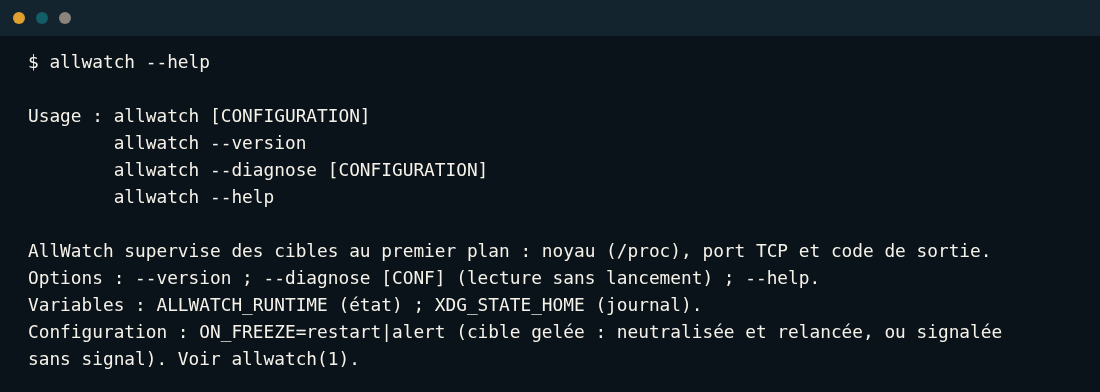
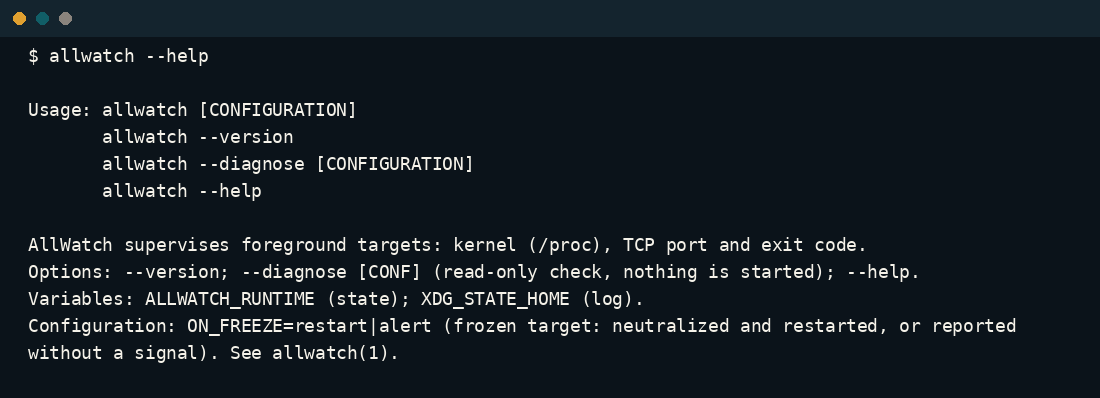
Aide et erreurs d'allwatch.sh dans la langue du système (en, fr, de, es, zh), cinq captures réelles et documents alignés

Changed region(s): [[0.0, 0.5816, 0.9273, 0.949], [0.0309, 0.2449, 0.4636, 0.5204], [0.0309, 0.1224, 0.1855, 0.1837]]

diff --git a/docs/de-DE/troubleshooting.md b/docs/de-DE/troubleshooting.md
@@ -14,8 +14,10 @@ Die Protokollzeilen sind `Datum id Ereignis`. Die Ereignisse sind `DEMARRAGE`, `
 
 ## Der Dienst startet nicht
 
-- `allwatch: configuration illisible : /etc/allwatch/allwatch.conf` — die Datei fehlt oder ist für den Dienstbenutzer nicht lesbar. Prüfen Sie `sudo -u allwatch test -r /etc/allwatch/allwatch.conf` und `sudo systemctl cat allwatch`.
-- `allwatch: /run/allwatch n'appartient pas à l'utilisateur` — das Laufzeitverzeichnis gehört einem anderen Benutzer. Prüfen Sie `ls -ld /run/allwatch /var/lib/allwatch`; die Unit legt sie für `allwatch` an. Wenn Sie ein Drop-in mit einem anderen `User=` hinzugefügt haben, korrigieren Sie den Eigentümer oder entfernen Sie das Drop-in.
+Das Programm schreibt diese Meldungen in der Sprache des Systems (`LC_ALL`, `LC_MESSAGES` oder `LANG`); Standard ist Englisch.
+
+- `allwatch: Konfiguration nicht lesbar: /etc/allwatch/allwatch.conf` — die Datei fehlt oder ist für den Dienstbenutzer nicht lesbar. Prüfen Sie `sudo -u allwatch test -r /etc/allwatch/allwatch.conf` und `sudo systemctl cat allwatch`.
+- `allwatch: /run/allwatch gehört nicht dem aktuellen Benutzer` — das Laufzeitverzeichnis gehört einem anderen Benutzer. Prüfen Sie `ls -ld /run/allwatch /var/lib/allwatch`; die Unit legt sie für `allwatch` an. Wenn Sie ein Drop-in mit einem anderen `User=` hinzugefügt haben, korrigieren Sie den Eigentümer oder entfernen Sie das Drop-in.
 - `status=203/EXEC` — das Programm fehlt oder ist nicht ausführbar. Installieren Sie das Paket neu.
 - `status=1/FAILURE` mit einem Konfigurationsfehler — führen Sie `--diagnose` als Dienstbenutzer aus (siehe unten).
 

diff --git a/docs/es-ES/troubleshooting.md b/docs/es-ES/troubleshooting.md
@@ -14,8 +14,10 @@ Las líneas del registro son `fecha id evento`. Los eventos son `DEMARRAGE`, `DE
 
 ## El servicio no arranca
 
-- `allwatch: configuration illisible : /etc/allwatch/allwatch.conf` — falta el archivo o el usuario del servicio no puede leerlo. Compruebe `sudo -u allwatch test -r /etc/allwatch/allwatch.conf` y `sudo systemctl cat allwatch`.
-- `allwatch: /run/allwatch n'appartient pas à l'utilisateur` — el directorio de ejecución pertenece a otro usuario. Compruebe `ls -ld /run/allwatch /var/lib/allwatch`; la unidad los crea para `allwatch`. Si añadió un drop-in con otro `User=`, corrija la propiedad o retire el drop-in.
+El programa escribe estos mensajes en el idioma del sistema (`LC_ALL`, `LC_MESSAGES` o `LANG`); el inglés es el idioma por defecto.
+
+- `allwatch: configuración ilegible: /etc/allwatch/allwatch.conf` — falta el archivo o el usuario del servicio no puede leerlo. Compruebe `sudo -u allwatch test -r /etc/allwatch/allwatch.conf` y `sudo systemctl cat allwatch`.
+- `allwatch: /run/allwatch no pertenece al usuario actual` — el directorio de ejecución pertenece a otro usuario. Compruebe `ls -ld /run/allwatch /var/lib/allwatch`; la unidad los crea para `allwatch`. Si añadió un drop-in con otro `User=`, corrija la propiedad o retire el drop-in.
 - `status=203/EXEC` — falta el programa o no es ejecutable. Reinstale el paquete.
 - `status=1/FAILURE` con un error de configuración — ejecute `--diagnose` como usuario del servicio (véase abajo).
 

diff --git a/docs/troubleshooting.md b/docs/troubleshooting.md
@@ -14,8 +14,10 @@ The log lines are `date id event`. The events are `DEMARRAGE`, `DEMARRE`, `ADOPT
 
 ## The service does not start
 
-- `allwatch: configuration illisible : /etc/allwatch/allwatch.conf` — the file is missing or not readable by the service user. Check `sudo -u allwatch test -r /etc/allwatch/allwatch.conf` and `sudo systemctl cat allwatch`.
-- `allwatch: /run/allwatch n'appartient pas à l'utilisateur` — the runtime directory is owned by another user. Check `ls -ld /run/allwatch /var/lib/allwatch`; the unit creates them as `allwatch`. If you added a drop-in with another `User=`, fix the ownership or remove the drop-in.
+The program writes these messages in the language of the system (`LC_ALL`, `LC_MESSAGES` or `LANG`); English is the default.
+
+- `allwatch: cannot read configuration: /etc/allwatch/allwatch.conf` — the file is missing or not readable by the service user. Check `sudo -u allwatch test -r /etc/allwatch/allwatch.conf` and `sudo systemctl cat allwatch`.
+- `allwatch: /run/allwatch is not owned by the current user` — the runtime directory is owned by another user. Check `ls -ld /run/allwatch /var/lib/allwatch`; the unit creates them as `allwatch`. If you added a drop-in with another `User=`, fix the ownership or remove the drop-in.
 - `status=203/EXEC` — the program is missing or not executable. Reinstall the package.
 - `status=1/FAILURE` with a configuration error — run `--diagnose` as the service user (see below).
 

diff --git a/docs/zh-CN/README.md b/docs/zh-CN/README.md
@@ -6,11 +6,11 @@
 
 [English](../../README.md) | [Français](../fr-FR/README.md) | [Deutsch](../de-DE/README.md) | [Español](../es-ES/README.md) | [中文](README.md)
 
-![AllWatch 帮助输出](../images/allwatch-help.png)
+![AllWatch 帮助输出](../images/allwatch-help-zh.png)
 
-*程序的 `--help` 摘要始终以法语输出，与本页语言无关。*
+*程序按系统语言输出 `--help` 摘要：默认英语，已翻译 `fr`、`de`、`es` 和 `zh`。*
 
-AllWatch 是面向 Linux 的微型进程监控器，由一个 Bash 脚本写成（约一百五十行有效代码）。
+AllWatch 是面向 Linux 的微型进程监控器，由一个 Bash 脚本写成（约一百七十行有效代码）。
 它让每个目标进程在前台启动，记住其 PID，只依据内核和网络给出的事实判断其健康：
 进程是否仍在 `/proc` 中，其 TCP 端口是否仍接受连接，以及它结束时留下什么退出码。
 它按每个目标进程的策略重启目标，并拒绝在一个刚启动就死亡的进程上无限循环。

diff --git a/docs/zh-CN/troubleshooting.md b/docs/zh-CN/troubleshooting.md
@@ -17,9 +17,11 @@ sudo tail -n 50 /var/lib/allwatch/allwatch/allwatch.log
 
 ## 服务没有启动
 
-- `allwatch: configuration illisible : /etc/allwatch/allwatch.conf`——文件缺失或服务用户无法读取。
+程序按系统语言（`LC_ALL`、`LC_MESSAGES` 或 `LANG`）输出这些消息；默认语言为英语。
+
+- `allwatch: 无法读取配置文件：/etc/allwatch/allwatch.conf`——文件缺失或服务用户无法读取。
   请检查 `sudo -u allwatch test -r /etc/allwatch/allwatch.conf` 和 `sudo systemctl cat allwatch`。
-- `allwatch: /run/allwatch n'appartient pas à l'utilisateur`——运行时目录属于另一个用户。
+- `allwatch: /run/allwatch 不属于当前用户`——运行时目录属于另一个用户。
   请检查 `ls -ld /run/allwatch /var/lib/allwatch`；单元以 `allwatch` 身份创建它们。
   如果你添加了使用另一个 `User=` 的 drop-in，请修正所有权或移除该 drop-in。
 - `status=203/EXEC`——程序缺失或不可执行。请重新安装软件包。

diff --git a/docs/es-ES/README.md b/docs/es-ES/README.md
@@ -6,12 +6,12 @@
 
 [English](../../README.md) | [Français](../fr-FR/README.md) | [Deutsch](../de-DE/README.md) | [Español](README.md) | [中文](../zh-CN/README.md)
 
-![Ayuda de AllWatch](../images/allwatch-help.png)
+![Ayuda de AllWatch](../images/allwatch-help-es.png)
 
-*El programa muestra el resumen de `--help` en francés, sea cual sea el idioma de esta página.*
+*El programa muestra el resumen de `--help` en el idioma del sistema: inglés por defecto, con `fr`, `de`, `es` y `zh` traducidos.*
 
 AllWatch es un supervisor de procesos minúsculo para Linux, escrito en un
-solo script Bash (unas ciento cincuenta líneas útiles de código). Inicia cada objetivo en primer
+solo script Bash (unas ciento setenta líneas útiles de código). Inicia cada objetivo en primer
 plano, recuerda su PID y juzga su salud solo con lo que dicen el núcleo y la
 red: ¿el proceso sigue en `/proc`, su puerto TCP sigue aceptando una conexión
 y qué código de salida dejó? Reinicia el objetivo según una política por

diff --git a/docs/de-DE/README.md b/docs/de-DE/README.md
@@ -6,12 +6,12 @@
 
 [English](../../README.md) | [Français](../fr-FR/README.md) | [Deutsch](README.md) | [Español](../es-ES/README.md) | [中文](../zh-CN/README.md)
 
-![AllWatch-Hilfe](../images/allwatch-help.png)
+![AllWatch-Hilfe](../images/allwatch-help-de.png)
 
-*Das Programm gibt seine `--help`-Zusammenfassung auf Französisch aus, unabhängig von der Sprache dieser Seite.*
+*Das Programm gibt die `--help`-Zusammenfassung in der Sprache des Systems aus: standardmäßig Englisch, übersetzt sind `fr`, `de`, `es` und `zh`.*
 
 AllWatch ist ein winziger Prozess-Supervisor für Linux, geschrieben in einem
-einzigen Bash-Skript (etwa hundertfünfzig nutzbare Zeilen). Er startet jedes Ziel im
+einzigen Bash-Skript (etwa hundertsiebzig nutzbare Zeilen). Er startet jedes Ziel im
 Vordergrund, merkt sich dessen PID und beurteilt seinen Zustand nur anhand
 von Kernel und Netzwerk: Existiert der Prozess noch in `/proc`, nimmt sein
 TCP-Port noch Verbindungen an, und welchen Exit-Code hat er hinterlassen? Er

diff --git a/docs/fr-FR/troubleshooting.md b/docs/fr-FR/troubleshooting.md
@@ -14,6 +14,8 @@ Les lignes du journal sont `date id événement`. Les événements sont `DEMARRA
 
 ## Le service ne démarre pas
 
+Le programme écrit ces messages dans la langue du système (`LC_ALL`, `LC_MESSAGES` ou `LANG`) ; l'anglais est la langue par défaut.
+
 - `allwatch: configuration illisible : /etc/allwatch/allwatch.conf` — le fichier manque ou n'est pas lisible par l'utilisateur du service. Vérifiez `sudo -u allwatch test -r /etc/allwatch/allwatch.conf` et `sudo systemctl cat allwatch`.
 - `allwatch: /run/allwatch n'appartient pas à l'utilisateur` — le répertoire d'exécution appartient à un autre utilisateur. Vérifiez `ls -ld /run/allwatch /var/lib/allwatch` ; l'unité les crée pour `allwatch`. Si vous avez ajouté un drop-in avec un autre `User=`, corrigez la propriété ou retirez le drop-in.
 - `status=203/EXEC` — le programme manque ou n'est pas exécutable. Réinstallez le paquet.

diff --git a/docs/fr-FR/README.md b/docs/fr-FR/README.md
@@ -6,10 +6,12 @@
 
 [English](../../README.md) | [Français](README.md) | [Deutsch](../de-DE/README.md) | [Español](../es-ES/README.md) | [中文](../zh-CN/README.md)
 
-![Aide d'AllWatch](../images/allwatch-help.png)
+![Aide d'AllWatch](../images/allwatch-help-fr.png)
+
+*Le programme affiche le résumé de `--help` dans la langue du système : anglais par défaut, avec `fr`, `de`, `es` et `zh` traduits.*
 
 AllWatch est un micro-superviseur de processus pour Linux, écrit dans un seul
-script Bash (environ cent cinquante lignes utiles de code). Il lance chaque
+script Bash (environ cent soixante-dix lignes utiles de code). Il lance chaque
 cible au premier plan, mémorise son PID et juge sa santé uniquement à partir de
 ce que disent le noyau et le réseau : le processus est-il toujours dans
 `/proc`, son port TCP accepte-t-il encore une connexion, et quel code de sortie

diff --git a/README.md b/README.md
@@ -8,10 +8,10 @@
 
 ![AllWatch help output](docs/images/allwatch-help.png)
 
-*The program prints its `--help` summary in French, whatever the language of this page.*
+*The program prints its `--help` summary in the language of the system: English by default, with `fr`, `de`, `es` and `zh` translated.*
 
 AllWatch is a tiny process supervisor for Linux, written in a single Bash
-script (about one hundred and fifty useful lines of code). It starts each target in the
+script (about one hundred and seventy useful lines of code). It starts each target in the
 foreground, remembers its PID, and judges its health only from what the kernel
 and the network say: is the process still in `/proc`, does its TCP port still
 accept a connection, and what exit code did it leave. It restarts the target

diff --git a/docs/fr-FR/allwatch.1.md b/docs/fr-FR/allwatch.1.md
@@ -57,6 +57,8 @@ La configuration est lue une fois au démarrage. Le fichier par défaut est
 
 Les options ne sont reconnues qu'en première position.
 
+Le texte de `--help` et des messages d'erreur suit la langue du système : la première des variables `LC_ALL`, `LC_MESSAGES` et `LANG` qui est définie. `fr`, `de`, `es` et `zh` sont traduits ; toute autre valeur donne l'anglais. Les événements du journal et la sortie de `--diagnose` ne sont pas traduits.
+
 # CONFIGURATION
 
 La configuration est lue une fois, au démarrage, ligne par ligne. Les lignes
